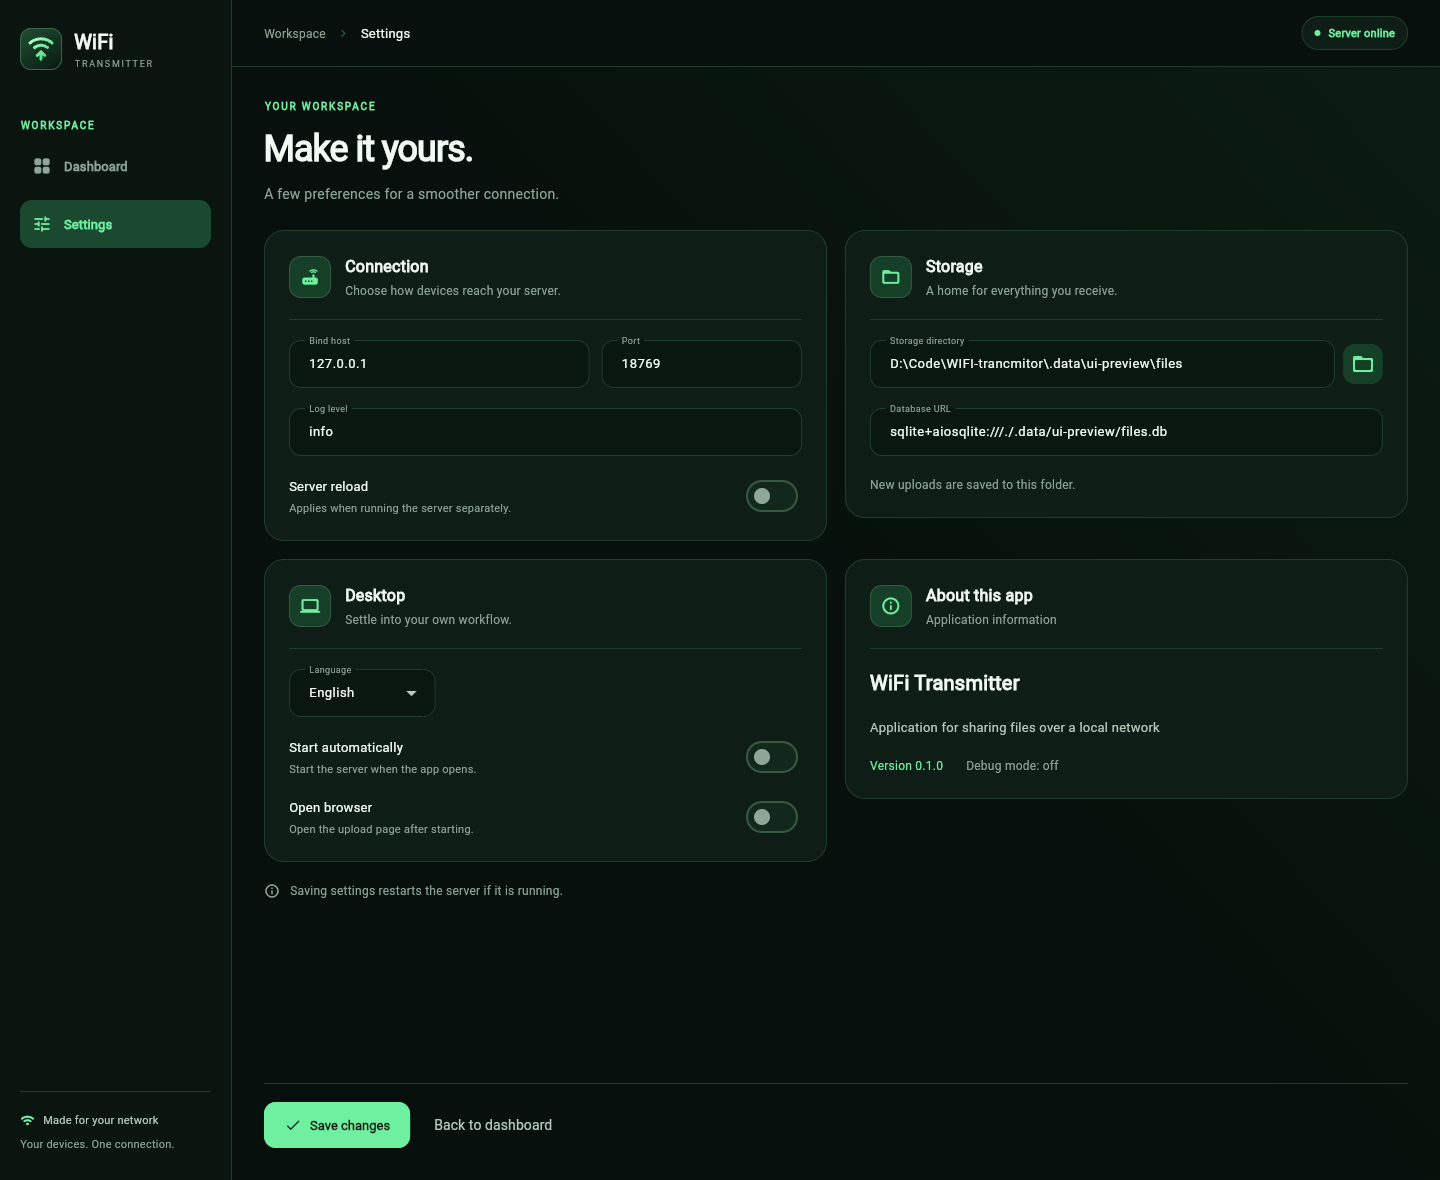
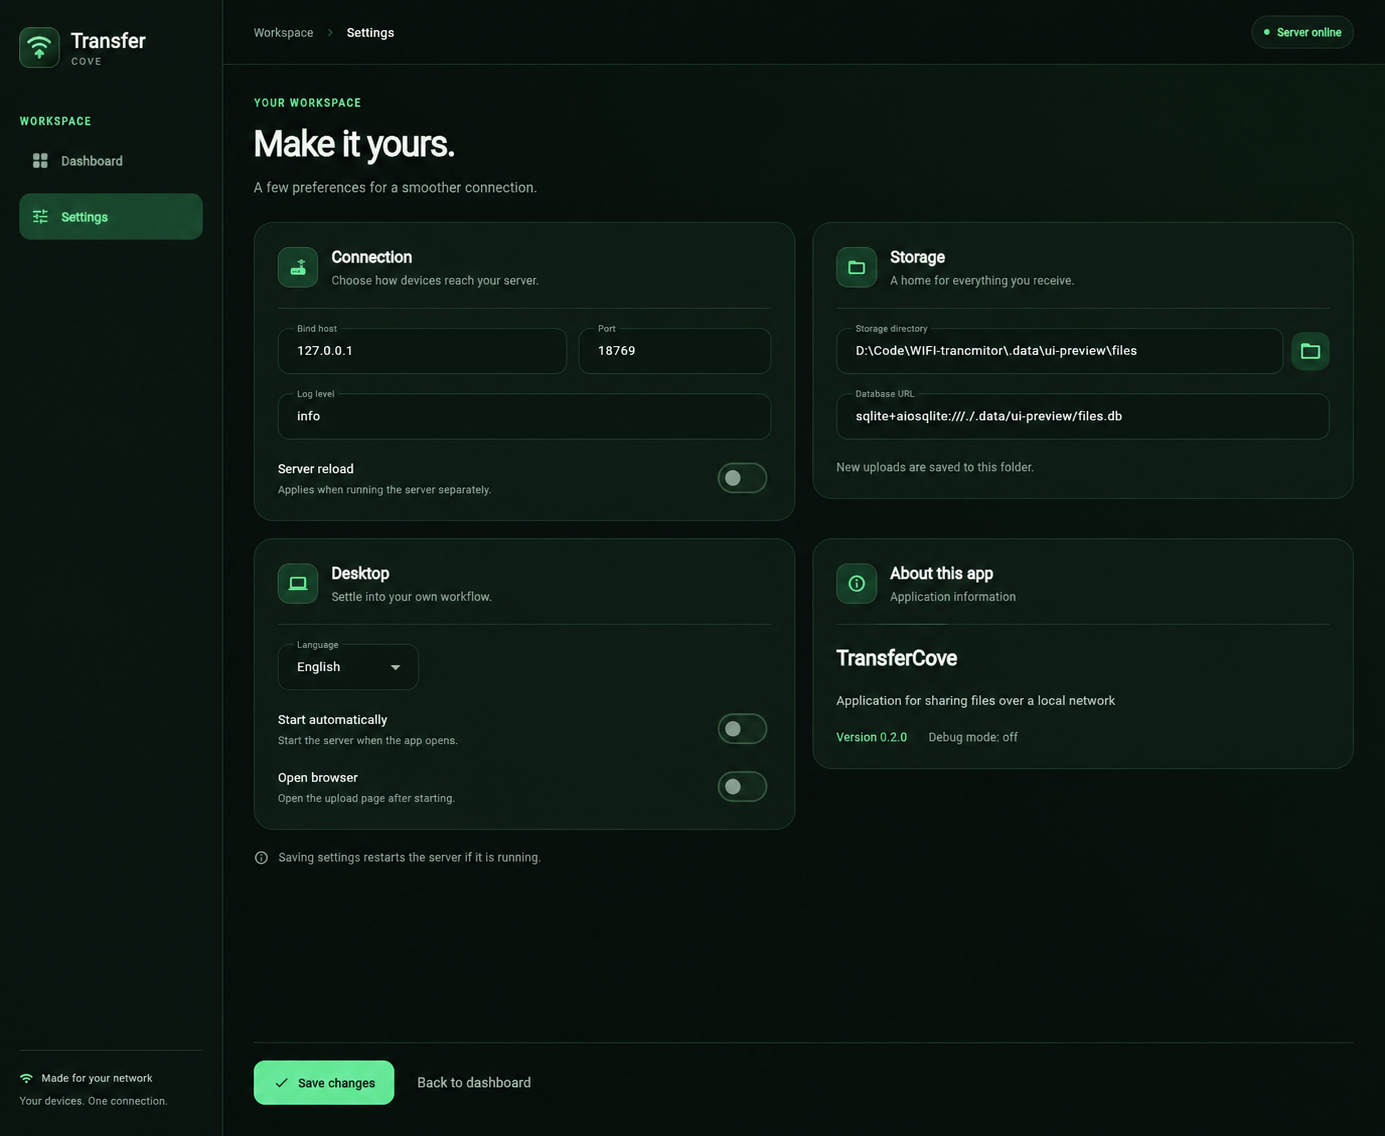
feat(branding): rename product to TransferCove

diff --git a/app/static/upload.html b/app/static/upload.html
@@ -4,8 +4,8 @@
   <meta charset="UTF-8">
   <meta name="viewport" content="width=device-width, initial-scale=1.0">
   <meta name="theme-color" content="#07100c">
-  <meta name="description" content="Send files directly to your computer over your local network with WiFi Transmitter.">
-  <title>WiFi Transmitter</title>
+  <meta name="description" content="Send files directly to your computer over your local network with TransferCove.">
+  <title>TransferCove</title>
   <link rel="icon" href="/assets/icon.svg" type="image/svg+xml">
   <link rel="alternate icon" href="/favicon.ico" sizes="16x16 32x32 48x48 64x64 128x128 256x256">
   <link rel="apple-touch-icon" href="/assets/apple-touch-icon.png" sizes="180x180">
@@ -14,11 +14,11 @@
 <body>
   <div class="app-shell">
     <header class="topbar">
-      <a class="brand" href="/" aria-label="WiFi Transmitter" data-i18n-aria-label="brand">
+      <a class="brand" href="/" aria-label="TransferCove" data-i18n-aria-label="brand">
         <span class="brand-mark" aria-hidden="true">
           <img src="/assets/icon.svg" width="34" height="34" alt="">
         </span>
-        <span data-i18n="brand">WiFi Transmitter</span>
+        <span data-i18n="brand">TransferCove</span>
       </a>
 
       <div class="connection-pill">

diff --git a/app/static/locales/en.js b/app/static/locales/en.js
@@ -1,8 +1,8 @@
 window.UPLOAD_LOCALES = window.UPLOAD_LOCALES || {};
 
 window.UPLOAD_LOCALES.en = {
-  pageTitle: "WiFi Transmitter — file upload",
-  brand: "WiFi Transmitter",
+  pageTitle: "TransferCove — file upload",
+  brand: "TransferCove",
   network: "Local network",
   eyebrow: "Fast Wi-Fi transfer",
   heroTitle: "Send files",

diff --git a/app/view/main_page.py b/app/view/main_page.py
@@ -80,7 +80,7 @@ class MainPage:
         )
 
     async def initialize(self) -> None:
-        self.page.title = "WiFi Transmitter"
+        self.page.title = "TransferCove"
         self.page.theme_mode = ft.ThemeMode.DARK
         self.page.theme = app_theme()
         self.page.dark_theme = app_theme()
@@ -117,10 +117,10 @@ class MainPage:
         self.brand_text = ft.Column(
             controls=[
                 ft.Text(
-                    "WiFi", size=20, weight=ft.FontWeight.W_700, color=COLORS["text"]
+                    "Transfer", size=20, weight=ft.FontWeight.W_700, color=COLORS["text"]
                 ),
                 ft.Text(
-                    "TRANSMITTER",
+                    "COVE",
                     size=9,
                     color=COLORS["muted"],
                     style=ft.TextStyle(letter_spacing=1.7),

diff --git a/app/view/home_page.py b/app/view/home_page.py
@@ -262,7 +262,7 @@ class HomePage:
                                 ft.Icons.WIFI_ROUNDED, size=14, color=COLORS["primary"]
                             ),
                             ft.Text(
-                                "WiFi Transmitter  /  A direct connection to your devices",
+                                "TransferCove  /  A direct connection to your devices",
                                 size=11,
                                 color=COLORS["muted"],
                                 expand=True,

diff --git a/tests/test_api.py b/tests/test_api.py
@@ -18,7 +18,7 @@ def test_upload_page_and_static_assets_are_available(client: TestClient) -> None
     script = client.get("/static/upload.js")
 
     assert page.status_code == 200
-    assert "WiFi Transmitter" in page.text
+    assert "TransferCove" in page.text
     assert stylesheet.status_code == 200
     assert "--green:" in stylesheet.text
     assert script.status_code == 200

diff --git a/app/server/manager.py b/app/server/manager.py
@@ -75,7 +75,7 @@ class ServerManager:
                 self._server = uvicorn.Server(config)
                 self._task = asyncio.create_task(
                     self._server.serve(),
-                    name="wifi-transmitter-fastapi",
+                    name="transfercove-fastapi",
                 )
 
                 await self._wait_until_ready(settings)

diff --git a/app/core/settings.py b/app/core/settings.py
@@ -16,7 +16,7 @@ def resolve_storage_path(path: Path) -> Path:
 
 
 class AppConfig(BaseModel):
-    title: str = "WIFI TRANSMITTER"
+    title: str = "TransferCove"
     description: str = "Application for sharing files over a local network"
     version: str = "0.2.0"
     debug: bool = False

diff --git a/app/core/theme.py b/app/core/theme.py
@@ -10,7 +10,7 @@ def brand_icon(size: int = 42) -> ft.Image:
         src="icon.svg",
         width=size,
         height=size,
-        semantics_label="WiFi Transmitter",
+        semantics_label="TransferCove",
         fit=ft.BoxFit.CONTAIN,
     )
 

diff --git a/app/__init__.py b/app/__init__.py
@@ -1,1 +1,1 @@
-"""WIFI Transmitter application package."""
+"""TransferCove application package."""

diff --git a/README.md b/README.md
@@ -1,6 +1,6 @@
 <div align="center">
 
-<img src="docs/images/banner.svg" width="100%" alt="WiFi Transmitter — your files, your network">
+<img src="docs/images/banner.svg" width="100%" alt="TransferCove — your files, your network">
 
 <br>
 
@@ -34,7 +34,7 @@ The dark green interface adapts to the window size. The sending device only need
 
 Server status and connection settings are available on one screen.
 
-<img src="docs/images/dashboard.png" width="100%" alt="WiFi Transmitter dashboard with a running server">
+<img src="docs/images/dashboard.png" width="100%" alt="TransferCove dashboard with a running server">
 
 <table>
   <tr>
@@ -215,7 +215,7 @@ Flet reads the application icon from `assets/icon.png`; the build entry point an
 
 ## License
 
-WiFi Transmitter is open-source software licensed under the [MIT License](LICENSE).
+TransferCove is open-source software licensed under the [MIT License](LICENSE).
 You may use, modify, and redistribute the project, including in commercial products,
 provided that the copyright and license notices are preserved.
 This license covers the project code and original assets in this repository; third-party
@@ -227,7 +227,7 @@ dependencies remain under their own licenses.
 
 <img src="assets/icon.svg" width="44" height="44" alt="">
 
-**WiFi Transmitter**<br>
+**TransferCove**<br>
 <sub>Your devices. One connection.</sub>
 
 </div>
